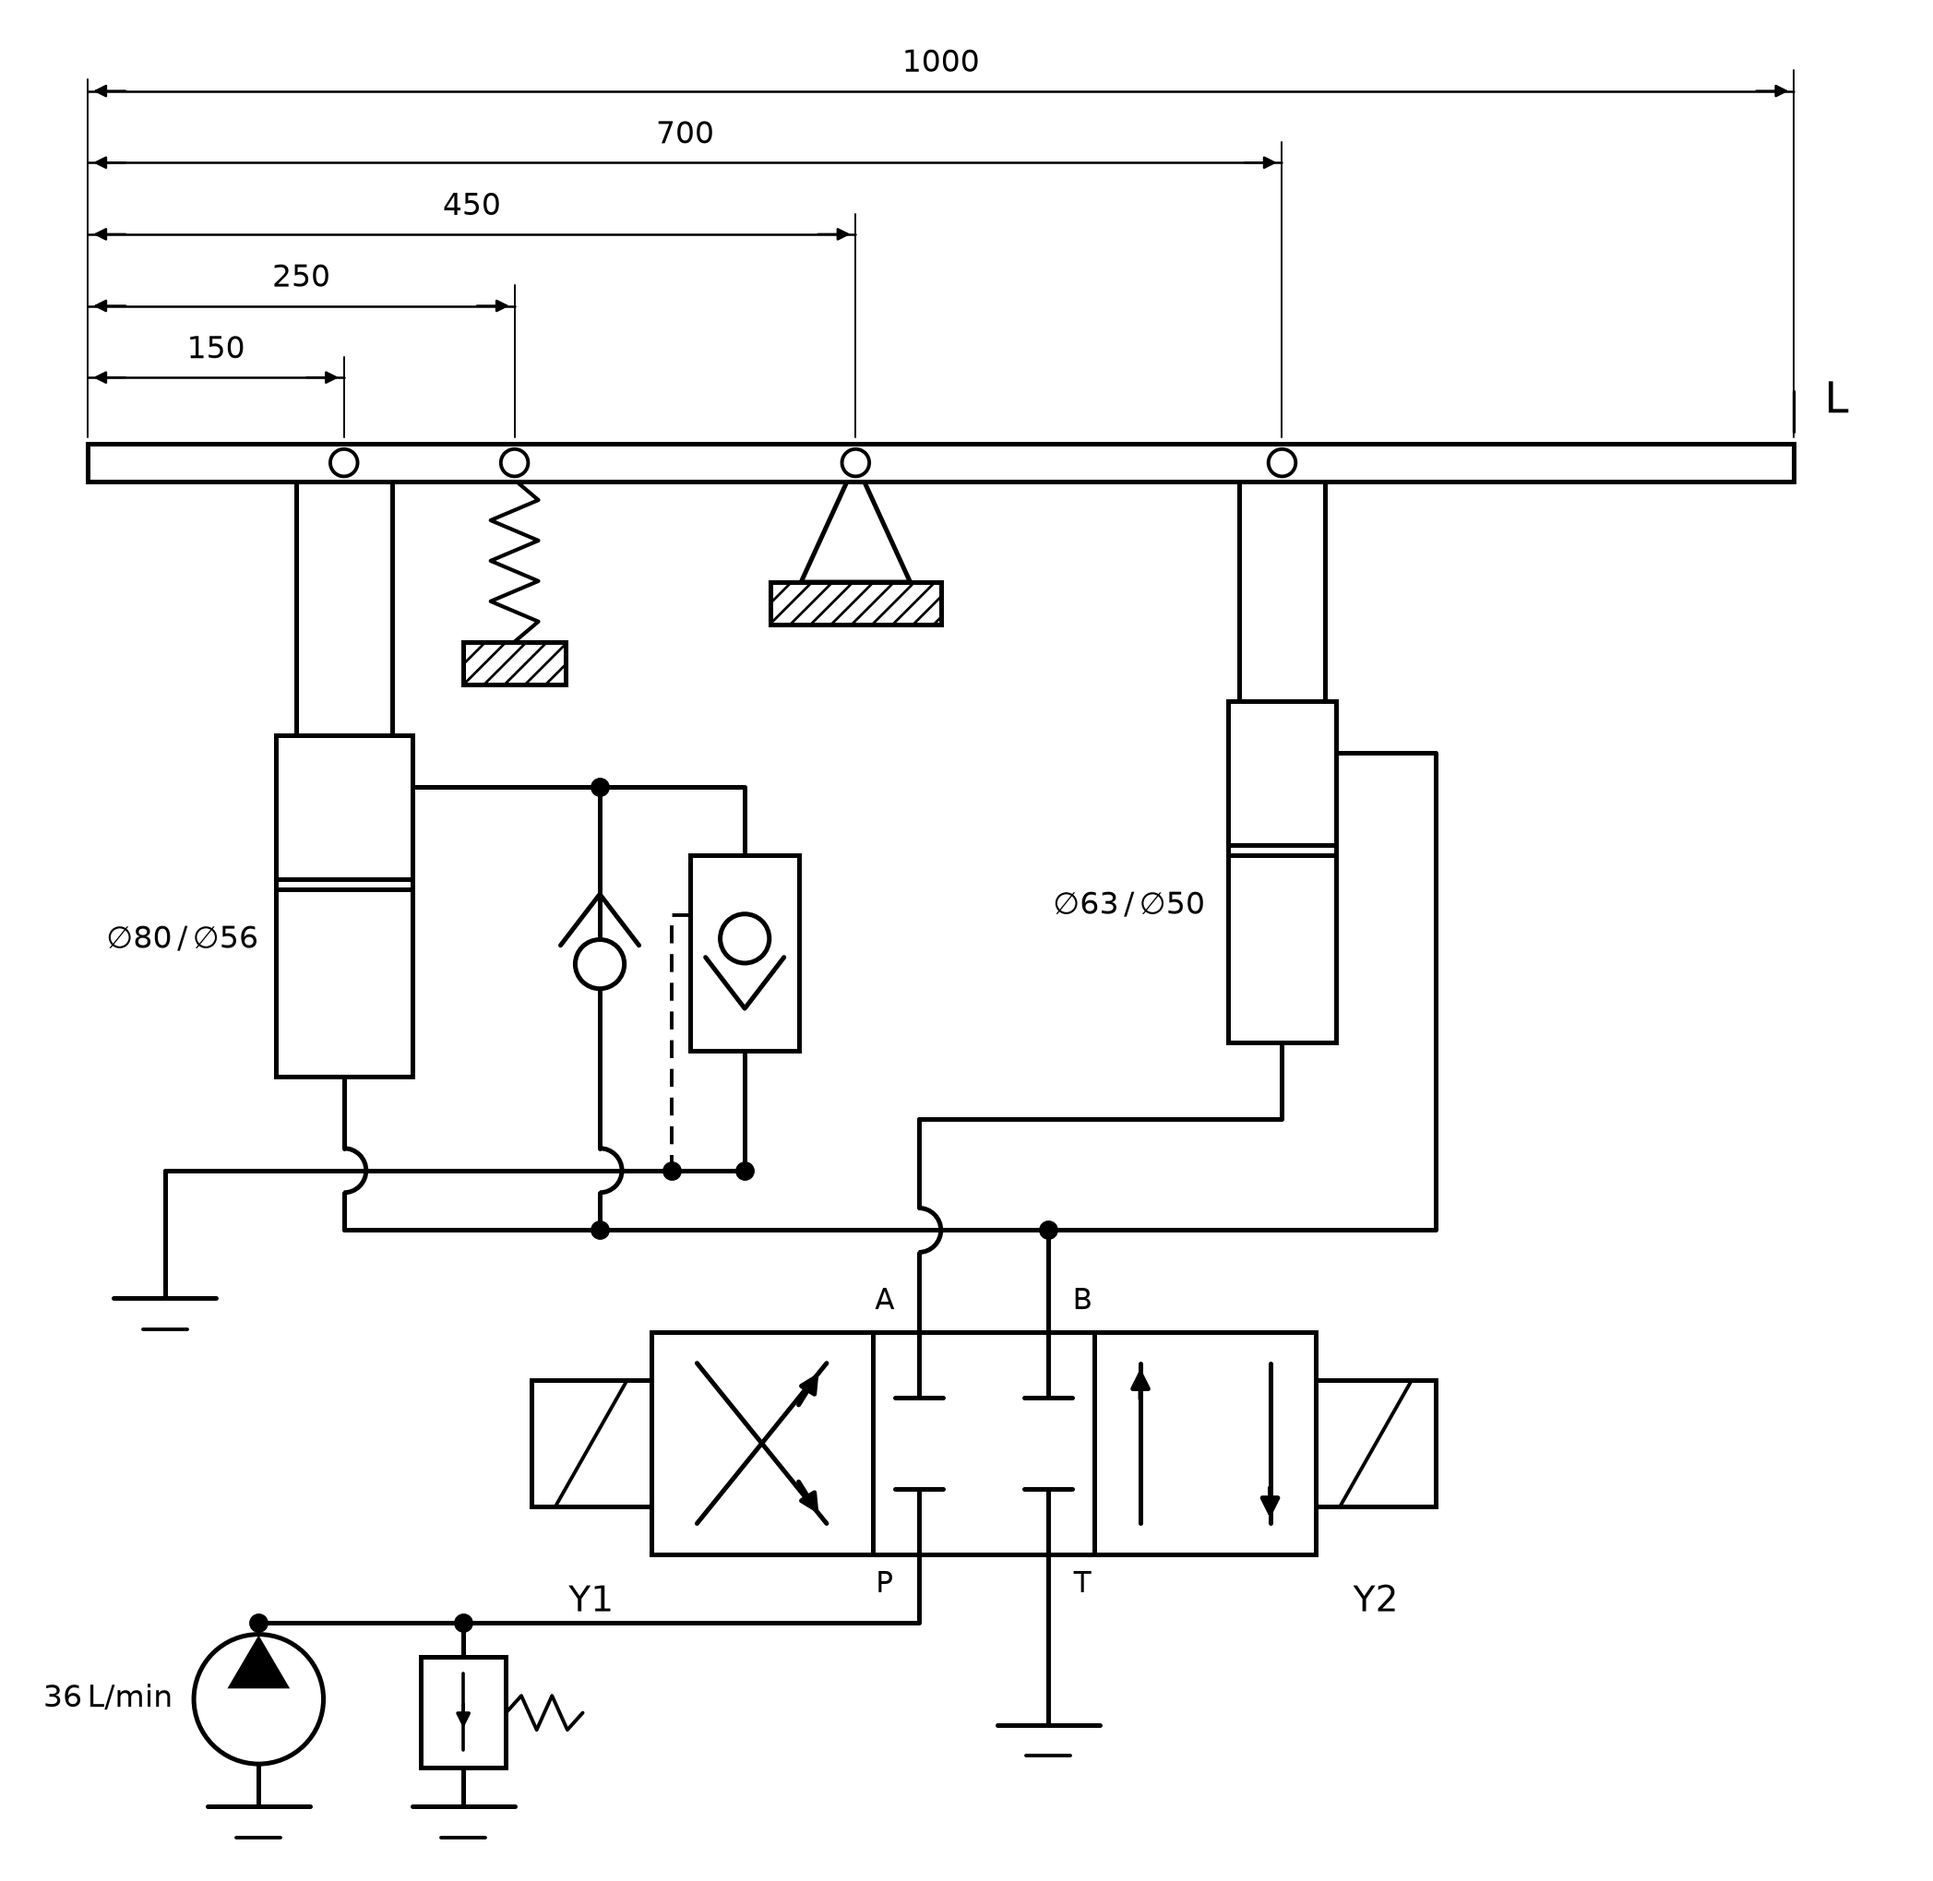
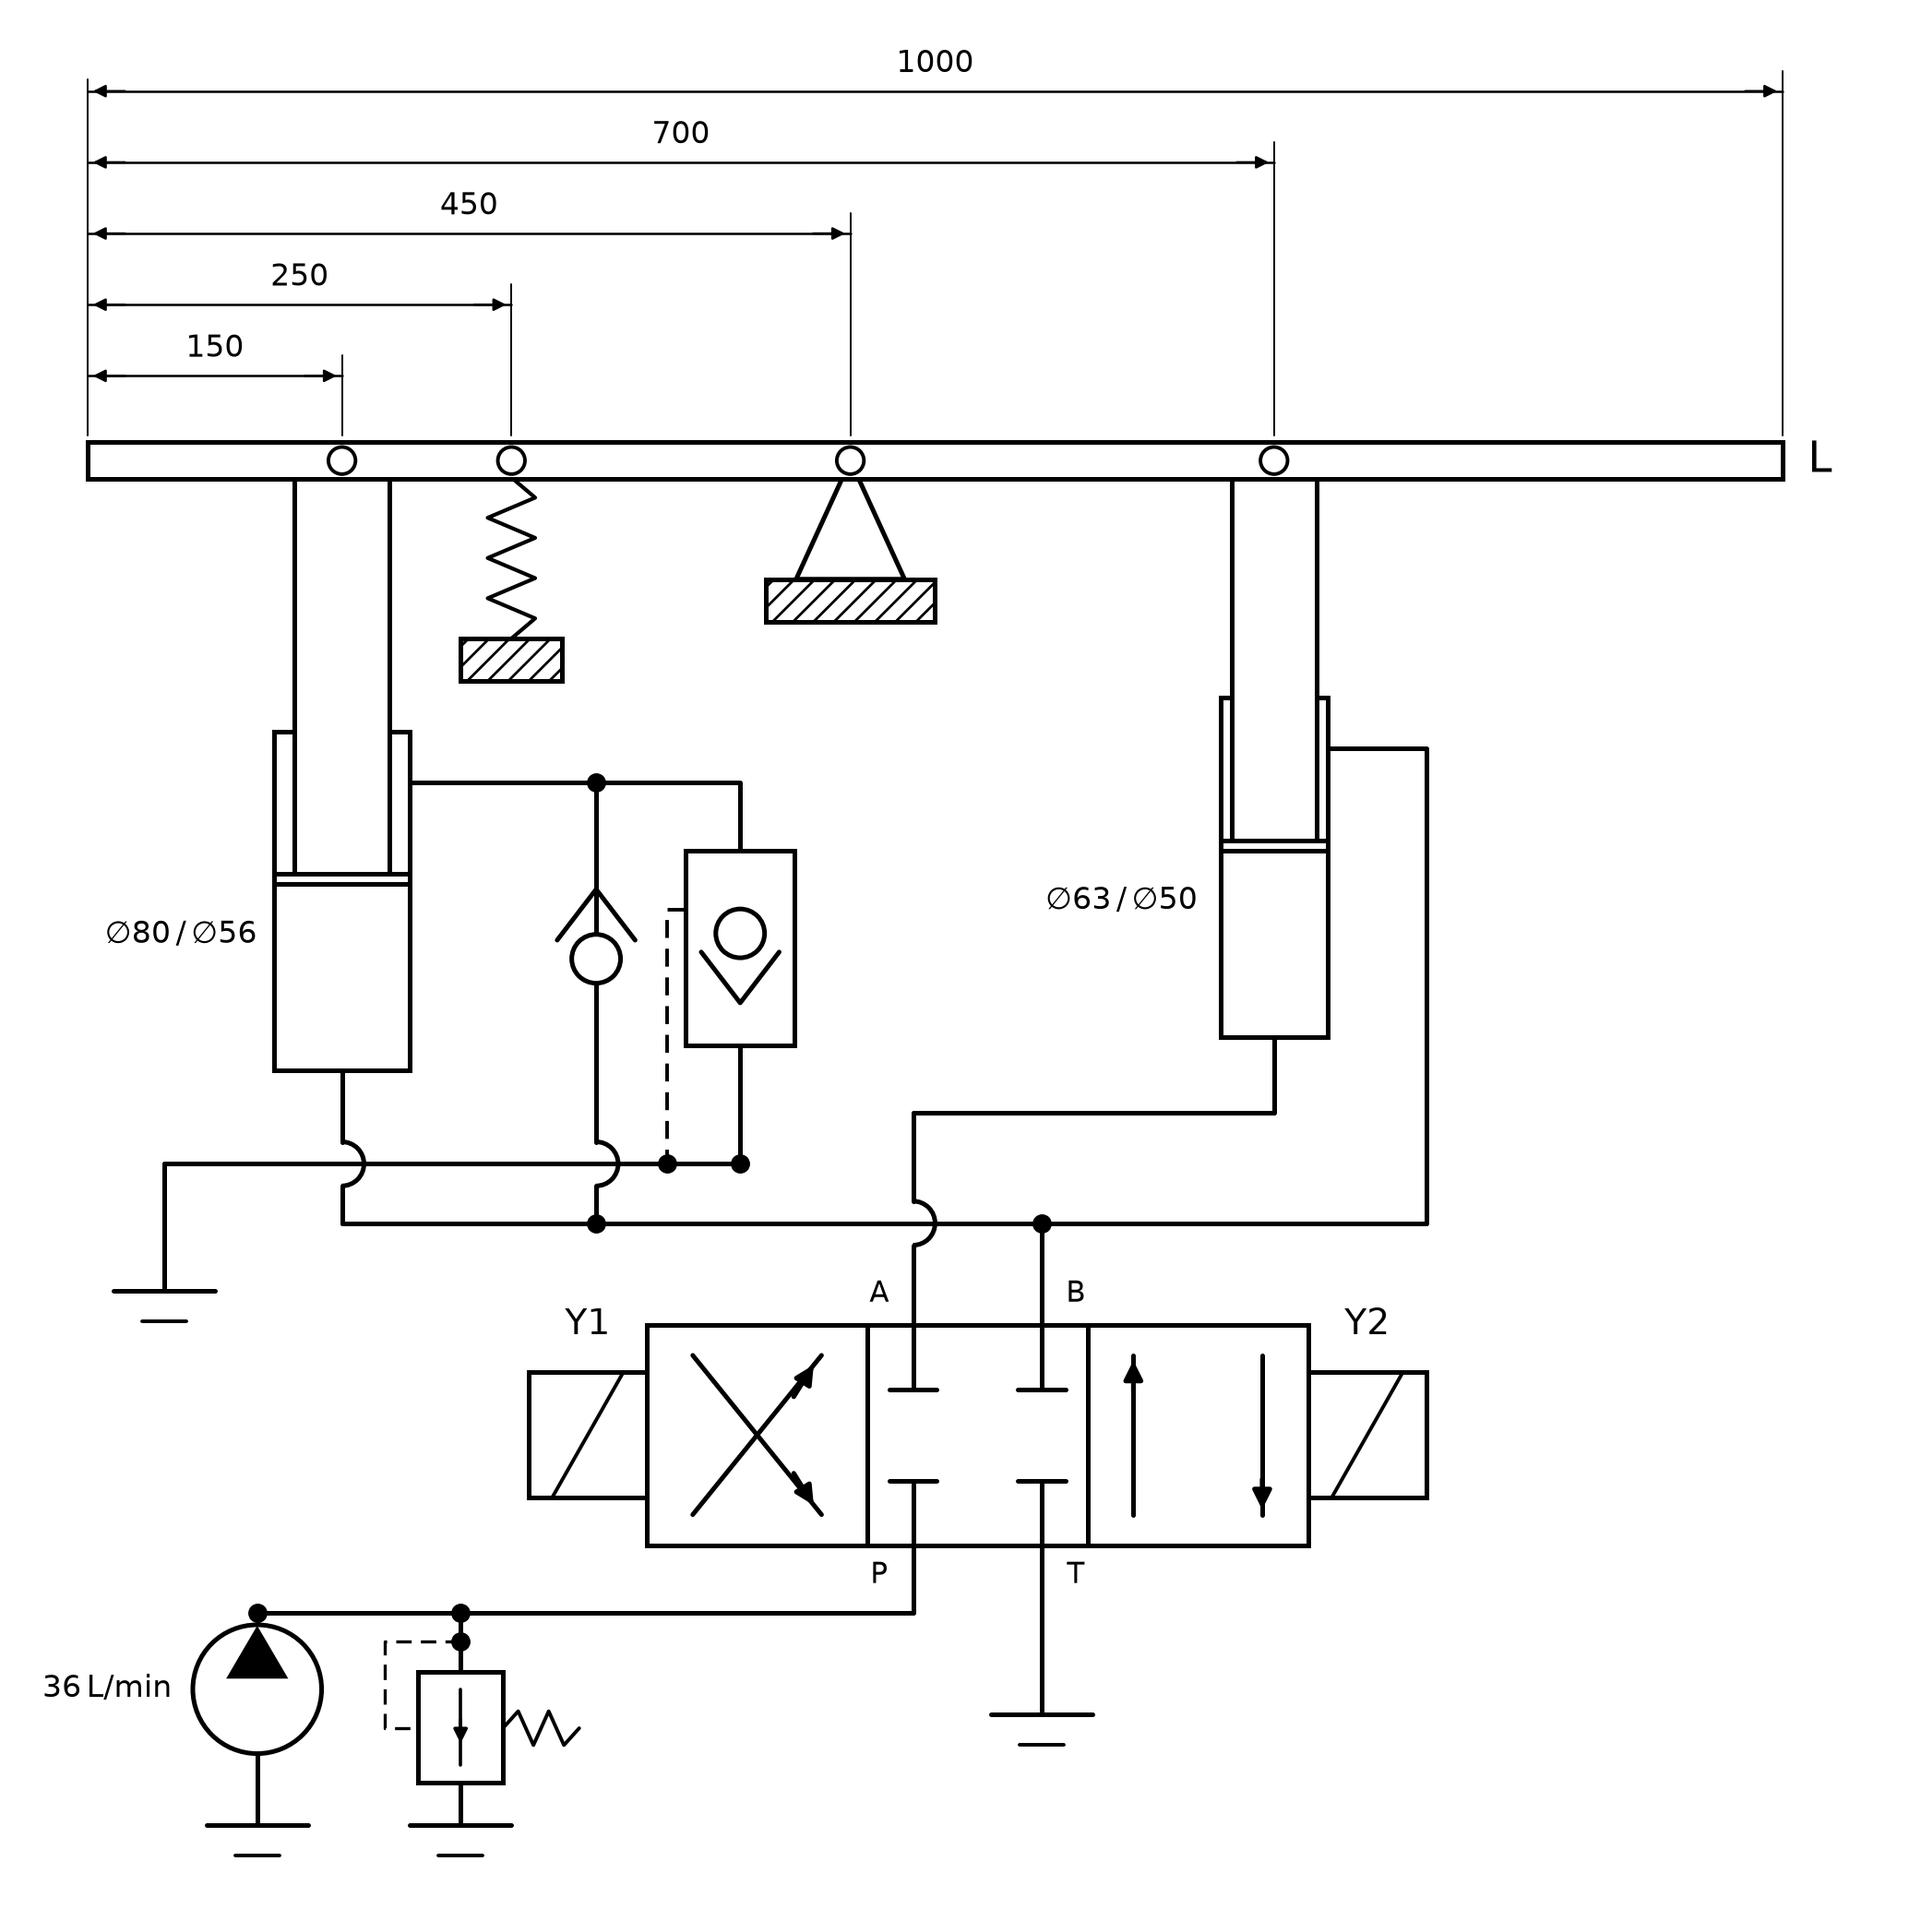
Fix lever v1 image anomalies
Draw cylinder rods through the rod-end chambers to the pistons (evidence
for the rod-end port read), add the relief valve's dashed pilot with its
own junction dot, move the L label to the lever tip and the solenoid
labels clear of the pressure line. Description updated; topology and
GTFA unchanged.

Claude-Session: https://claude.ai/code/session_01BcBL8sDZBqSH5Mt333qZue

diff --git a/tasks/lever_v1/draw_lever_v1.py b/tasks/lever_v1/draw_lever_v1.py
@@ -81,7 +81,9 @@ def dim(x1, y, text):
 def cylinder(xc, bore, rod, y0, h, y_lever):
     box(ax, xc - bore / 2, y0, bore, h)
     box(ax, xc - bore / 2, y0 + 0.55 * h, bore, 0.06)                          # piston
-    box(ax, xc - rod / 2, y0 + 0.55 * h + 0.06, rod, y_lever - (y0 + 0.55 * h + 0.06), z=3.5)
+    box(ax, xc - rod / 2, y0 + 0.55 * h + 0.06, rod, y_lever - (y0 + 0.55 * h + 0.06), z=4.5)
+    line(ax, [(xc - bore / 2, y0 + h), (xc - rod / 2, y0 + h)], z=4.6)                 # body top wall
+    line(ax, [(xc + rod / 2, y0 + h), (xc + bore / 2, y0 + h)], z=4.6)
 
 
 # ---------------- lever, pins, supports ----------------
@@ -94,8 +96,7 @@ ax.add_patch(Polygon([(4.5, YL), (4.18, 7.3), (4.82, 7.3)], closed=True, facecol
 ground_hatch(ax, 4.0, 7.05, 1.0, 0.25)
 vspring(2.5, YL - 0.1, 6.95)
 ground_hatch(ax, 2.2, 6.7, 0.6, 0.25)
-line(ax, [(10.0, YL + 0.18), (10.0, YL + 0.42)], lw=1.2)
-txt(ax, 10.18, YL + 0.36, "L", ha="left", fs=17)
+txt(ax, 10.15, YL, "L", ha="left", fs=17)
 
 # ---------------- baseline dimensions (from the left end) ----------------
 line(ax, [(0, 8.15), (0, 10.25)], lw=0.7, z=2)
@@ -136,8 +137,8 @@ arrow(ax, rx + o2, VY + 0.42, 0, -0.24)
 for xs in (VX - 0.7, VX + 3 * SQ):
     box(ax, xs, VY + 0.28, 0.7, 0.74)
     line(ax, [(xs + 0.14, VY + 0.28), (xs + 0.56, VY + 1.02)], lw=1.4, z=6)
-txt(ax, VX - 0.35, VY - 0.28, "Y1", fs=14)
-txt(ax, VX + 3 * SQ + 0.35, VY - 0.28, "Y2", fs=14)
+txt(ax, VX - 0.35, VY + 1.3, "Y1", fs=14)
+txt(ax, VX + 3 * SQ + 0.35, VY + 1.3, "Y2", fs=14)
 PA, PB = cx + o1, cx + o2
 for xp, lab, yy in ((PA - 0.2, "A", VY + VH + 0.18), (PB + 0.2, "B", VY + VH + 0.18),
                     (PA - 0.2, "P", VY - 0.18), (PB + 0.2, "T", VY - 0.18)):
@@ -151,18 +152,20 @@ ax.add_patch(Polygon([(pc[0], pc[1] + 0.36), (pc[0] - 0.17, pc[1] + 0.07), (pc[0
 txt(ax, pc[0] - 0.5, pc[1], "$36\\,\\mathrm{L/min}$", ha="right", fs=12)
 YPL = 1.2
 line(ax, [(pc[0], pc[1] + 0.38), (pc[0], YPL)])
-line(ax, [(pc[0], pc[1] - 0.38), (pc[0], 0.12)])
-tank(ax, pc[0], 0.12, w=0.6)
+line(ax, [(pc[0], pc[1] - 0.38), (pc[0], -0.05)])
+tank(ax, pc[0], -0.05, w=0.6)
 dot(ax, pc[0], YPL)
 rvx = 2.2
 dot(ax, rvx, YPL)
-line(ax, [(rvx, YPL), (rvx, 1.0)])
-box(ax, rvx - 0.25, 0.35, 0.5, 0.65)
-line(ax, [(rvx, 0.45), (rvx, 0.9)], lw=1.3, z=6)
-arrow(ax, rvx, 0.75, 0, -0.2, lw=1.3, scale=11)
-spring(ax, rvx + 0.25, 0.67, rvx + 0.7, n=4, amp=0.1)
-line(ax, [(rvx, 0.35), (rvx, 0.12)])
-tank(ax, rvx, 0.12, w=0.6)
+line(ax, [(rvx, YPL), (rvx, 0.85)])                        # inlet stub
+box(ax, rvx - 0.25, 0.2, 0.5, 0.65)
+line(ax, [(rvx, 0.3), (rvx, 0.75)], lw=1.3, z=6)
+arrow(ax, rvx, 0.6, 0, -0.2, lw=1.3, scale=11)
+spring(ax, rvx + 0.25, 0.52, rvx + 0.7, n=4, amp=0.1)
+dot(ax, rvx, 1.03)                                         # pilot take-off on the inlet stub
+line(ax, [(rvx, 1.03), (rvx - 0.45, 1.03), (rvx - 0.45, 0.52), (rvx - 0.25, 0.52)], ls=DASH, lw=1.2)
+line(ax, [(rvx, 0.2), (rvx, -0.05)])
+tank(ax, rvx, -0.05, w=0.6)
 line(ax, [(pc[0], YPL), (PA, YPL), (PA, VY)])
 line(ax, [(PB, VY), (PB, 0.6)])
 tank(ax, PB, 0.6, w=0.6)
@@ -200,4 +203,4 @@ tank(ax, 0.45, 3.1, w=0.6)
 line(ax, [(PX - 0.32, 5.35), (3.42, 5.35), (3.42, YD)], ls=DASH, lw=1.4)
 dot(ax, 3.42, YD)
 
-save_png(fig, ax, str(OUT), xlim=(-0.3, 10.6), ylim=(-0.1, 10.5), tiles_dir=TILES)
+save_png(fig, ax, str(OUT), xlim=(-0.3, 10.6), ylim=(-0.4, 10.5), tiles_dir=TILES)

diff --git a/tasks/lever_v1/TASK_PACKAGE.md b/tasks/lever_v1/TASK_PACKAGE.md
@@ -65,9 +65,9 @@ The answer should be expressed in $\text{mm/s}$. Report your final answer as a $
 ```
 The figure, drawn to scale, shows a horizontal rigid lever at the top and an ISO 1219 hydraulic circuit below it. All numerical data are in the figure: the pump is marked 36 L/min, the left cylinder Ø80/Ø56 and the right cylinder Ø63/Ø50 (bore/rod, mm). Five baseline dimensions run above the lever. Each starts at the lever's left end and ends at a feature: 150, 250, 450, 700 and 1000 mm. The 1000 mm dimension ends at the right tip, which is marked L.
 
-Four pins lie on the lever, at 150, 250, 450 and 700 mm from the left end. The pin at 450 mm sits on the apex of a triangular clevis standing on a hatched ground block. The pin at 250 mm has only a coil spring hanging from it, ending on a small separate hatched block. The rod of the left cylinder rises to the pin at 150 mm, and the rod of the right cylinder rises to the pin at 700 mm. Both cylinders stand vertically below the lever, with their bodies at the bottom and pistons drawn as double lines.
+Four pins lie on the lever, at 150, 250, 450 and 700 mm from the left end. The pin at 450 mm sits on the apex of a triangular clevis standing on a hatched ground block. The pin at 250 mm has only a coil spring hanging from it, ending on a small separate hatched block. The rod of the left cylinder rises to the pin at 150 mm, and the rod of the right cylinder rises to the pin at 700 mm. Both cylinders stand vertically below the lever, with their bodies at the bottom and pistons drawn as double lines; each rod is drawn running down through the upper chamber of its body to the piston, so the upper chamber is the rod end and the lower chamber the cap end.
 
-The directional valve has three envelopes, with ports A and B on top and P and T underneath, drawn on the centre envelope. Solenoid Y1 is at the left end and Y2 at the right end. The left envelope has two crossed diagonal arrows (P to B, A to T); the centre envelope has all ports blocked; the right envelope has two parallel arrows (P to A, B to T). The pump feeds P through a line on which a relief valve tees off at a dot to its own tank, and T drops to a tank.
+The directional valve has three envelopes, with ports A and B on top and P and T underneath, drawn on the centre envelope. Solenoid Y1 is at the left end and Y2 at the right end. The left envelope has two crossed diagonal arrows (P to B, A to T); the centre envelope has all ports blocked; the right envelope has two parallel arrows (P to A, B to T). The pump feeds P through a line on which a relief valve tees off at a dot to its own tank (its dashed pilot leaves its inlet at a separate dot), and T drops to a tank.
 
 From port B a line rises to a dot. From there one horizontal line runs left to the bottom (cap) port of the left cylinder, and another runs right, up the far right side and into the right cylinder's side port, which lies above its piston. The bottom (cap) port of the right cylinder drops, runs left and descends to port A, crossing the B line with a hop.
 
